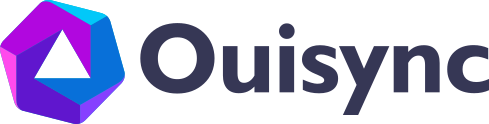
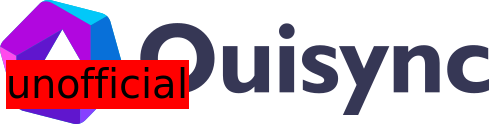
CI: Let the "unofficial" flavor be unsigned

Changed region(s): [[0.0, 0.4839, 0.3988, 0.8952]]

diff --git a/util/release.dart b/util/release.dart
@@ -19,7 +19,57 @@ import 'package:collection/collection.dart';
 
 const rootWorkDir = 'releases';
 const String windowsArtifactDir = 'build/windows/x64/runner/Release';
-const String defaultFlavor = "production";
+
+enum Flavor {
+  production(true, true, true),
+  nightly(true, true, false),
+  unofficial(false, false, false);
+
+  const Flavor(
+      this.requiresSigning, this.requiresSentryDSN, this.doGitCleanCheck);
+
+  final bool requiresSigning;
+  final bool requiresSentryDSN;
+  final bool doGitCleanCheck;
+
+  static Flavor fromString(String name) {
+    switch (name) {
+      case "":
+      case "production":
+        return Flavor.production;
+      case "nightly":
+        return Flavor.nightly;
+      case "unofficial":
+        return Flavor.unofficial;
+      default:
+        print(
+            'Invalid flavor "$name", must be one of {production, nightly, unofficial}');
+        exit(1);
+    }
+  }
+
+  String toString() {
+    switch (this) {
+      case Flavor.production:
+        return "production";
+      case Flavor.nightly:
+        return "nightly";
+      case Flavor.unofficial:
+        return "unofficial";
+    }
+  }
+
+  String? get displayString {
+    switch (this) {
+      case Flavor.production:
+        return "";
+      case Flavor.nightly:
+        return "nightly";
+      case Flavor.unofficial:
+        return "unofficial";
+    }
+  }
+}
 
 Future<void> main(List<String> args) async {
   final options = await Options.parse(args);
@@ -34,17 +84,17 @@ Future<void> main(List<String> args) async {
   final commit = await getCommit();
   final buildDesc = BuildDesc(version, commit);
 
-  if (sentryDSN == null && buildDesc.flavor == defaultFlavor) {
+  if (sentryDSN == null && buildDesc.flavor.requiresSentryDSN) {
+    print("Sentry DSN is required for this flavor, but could not be found");
     exit(1);
   }
 
-  if (buildDesc.flavor == defaultFlavor &&
-      !await checkWorkingTreeIsClean(git)) {
+  if (buildDesc.flavor.doGitCleanCheck && !await checkWorkingTreeIsClean(git)) {
     return;
   }
 
-  if (buildDesc.displayFlavor != null) {
-    await addBadgeToIcons(buildDesc.displayFlavor!);
+  if (buildDesc.flavor.displayString != null) {
+    await addBadgeToIcons(buildDesc.flavor.displayString!);
   }
 
   // TODO: use `pubspec.name` here but first rename it from "ouisync_app" to "ouisync"
@@ -62,7 +112,7 @@ Future<void> main(List<String> args) async {
     }
 
     if (options.apk) {
-      final apk = await extractApk(aab);
+      final apk = await extractApk(aab, buildDesc.flavor);
       assets.add(await collateAsset(outputDir, name, buildDesc, apk));
     }
   }
@@ -168,7 +218,7 @@ class Options {
   final String? identityName;
   final String? publisher;
   final bool awaitUpload;
-  final String flavor;
+  final Flavor flavor;
 
   Options._({
     this.apk = false,
@@ -185,7 +235,7 @@ class Options {
     this.identityName,
     this.publisher,
     this.awaitUpload = false,
-    this.flavor = defaultFlavor,
+    this.flavor = Flavor.production,
   });
 
   static Future<Options> parse(List<String> args) async {
@@ -266,8 +316,9 @@ class Options {
       negatable: false,
       help: 'Print this usage information',
     );
-    parser.addFlag('nightly',
-        help: 'Use the flavor for building nightly builds');
+    parser.addOption('flavor',
+        help:
+            'Specify a build flavor, one of {production, nightly, unofficial}, nightly is the default');
 
     final results = parser.parse(args);
 
@@ -330,7 +381,7 @@ class Options {
       identityName: results['identity-name'],
       publisher: results['publisher'],
       awaitUpload: results['await-upload'],
-      flavor: results['nightly'] ? "nightly" : defaultFlavor,
+      flavor: Flavor.fromString(results['flavor']),
     );
   }
 }
@@ -352,8 +403,7 @@ class BuildDesc {
   // The "foo" in "1.2.3+foo".
   String get buildIdentifier => version.build[0].toString();
 
-  String get flavor => version.preRelease.first!.toString();
-  String? get displayFlavor => flavor != defaultFlavor ? flavor : null;
+  Flavor get flavor => Flavor.fromString(version.preRelease.first!.toString());
 
   @override
   String toString() {
@@ -376,10 +426,10 @@ class BuildDesc {
       ..write('.')
       ..write(version.patch);
 
-    if (displayFlavor != null) {
+    if (flavor.displayString != null) {
       buffer
         ..write('-')
-        ..write(displayFlavor);
+        ..write(flavor.displayString);
     }
 
     return buffer;
@@ -710,7 +760,7 @@ Future<File> buildDebCLI(
 //
 ////////////////////////////////////////////////////////////////////////////////
 Future<File> buildAab(BuildDesc buildDesc, String? sentryDSN) async {
-  String flavor = buildDesc.flavor;
+  String flavor = buildDesc.flavor.toString();
 
   final inputFileName = "app-$flavor-release.aab";
   final inputPath = 'build/app/outputs/bundle/${flavor}Release/$inputFileName';
@@ -737,7 +787,7 @@ Future<File> buildAab(BuildDesc buildDesc, String? sentryDSN) async {
 // apk
 //
 ////////////////////////////////////////////////////////////////////////////////
-Future<File> extractApk(File bundle) async {
+Future<File> extractApk(File bundle, Flavor flavor) async {
   final outputPath = p.setExtension(bundle.path, '.apk');
   final outputFile = File(outputPath);
 
@@ -749,11 +799,25 @@ Future<File> extractApk(File bundle) async {
 
   final bundletool = await prepareBundletool();
 
-  final keyProperties = Properties.fromFile('secrets/android/key.properties');
-  final storeFile = p.join('android/app', keyProperties.get('storeFile')!);
-  final storePassword = keyProperties.get('storePassword')!;
-  final keyPassword = keyProperties.get('keyPassword')!;
-  final keyAlias = keyProperties.get('keyAlias')!;
+  final keyPropertiesPath = 'secrets/android/key.properties';
+
+  String? storeFile;
+  String? storePassword;
+  String? keyPassword;
+  String? keyAlias;
+
+  if (await File(keyPropertiesPath).exists()) {
+    final keyProperties = Properties.fromFile(keyPropertiesPath);
+    storeFile = p.join('android/app', keyProperties.get('storeFile')!);
+    storePassword = keyProperties.get('storePassword')!;
+    keyPassword = keyProperties.get('keyPassword')!;
+    keyAlias = keyProperties.get('keyAlias')!;
+  } else {
+    if (flavor.requiresSigning) {
+      print('Key properties file "$keyPropertiesPath" not found');
+      exit(1);
+    }
+  }
 
   final tempPath = p.setExtension(bundle.path, '.apks');
 
@@ -763,10 +827,10 @@ Future<File> extractApk(File bundle) async {
     'build-apks',
     '--bundle=${bundle.path}',
     '--mode=universal',
-    '--ks=$storeFile',
-    '--ks-pass=pass:$storePassword',
-    '--ks-key-alias=$keyAlias',
-    '--key-pass=pass:$keyPassword',
+    if (storeFile != null) '--ks=$storeFile',
+    if (storePassword != null) '--ks-pass=pass:$storePassword',
+    if (keyAlias != null) '--ks-key-alias=$keyAlias',
+    if (keyPassword != null) '--key-pass=pass:$keyPassword',
     '--output=$tempPath',
   ]);
 
@@ -1072,7 +1136,8 @@ Version determineVersion(Pubspec pubspec, Options options) {
   }
   return Version(
       pubspecVersion.major, pubspecVersion.minor, pubspecVersion.patch,
-      pre: options.flavor, build: pubspecVersion.build[0].toString());
+      pre: options.flavor.toString(),
+      build: pubspecVersion.build[0].toString());
 }
 
 Future<void> run(
